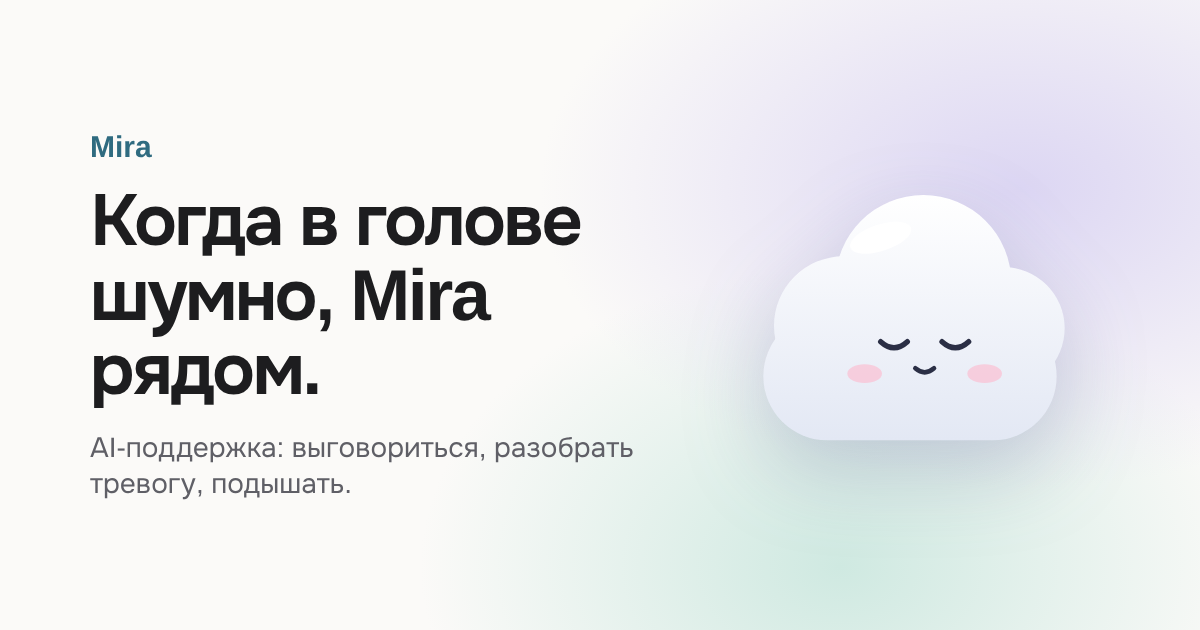
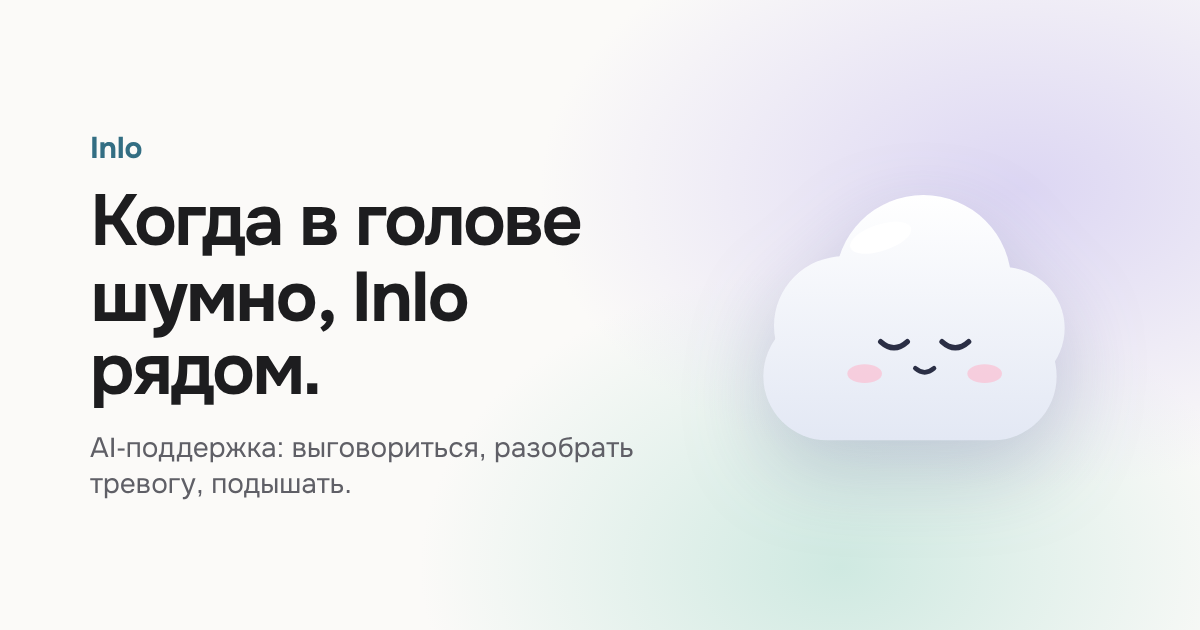
Переименование: Mira → Inlo на сайте, в демо-чате и документах
Название продукта меняется из-за конфликтов на ру-рынке (ИИ-психолог «Мира» и Mira в Telegram).
Меняется только видимое пользователю имя; внутренние идентификаторы (CSS .mira, ключи localStorage,
PUBLIC_MIRA_API) остаются, чтобы не терять историю чата у пользователей. Картинка-превью og.png
перерисована с новым именем. Код бота (bot/) переименовывается отдельно.

Claude-Session: https://claude.ai/code/session_012UMsag2D8XUhqVvByT77CY

Changed region(s): [[0.0925, 0.4222, 0.4317, 0.5127], [0.0617, 0.2111, 0.1233, 0.2714], [0.1233, 0.5127, 0.1542, 0.5429]]

diff --git a/src/styles/global.css b/src/styles/global.css
@@ -1,4 +1,4 @@
-/* Mira: дизайн-токены. Светлая тема днём, тёмная ночью (22–6) и при тёмной теме системы.
+/* Inlo: дизайн-токены. Светлая тема днём, тёмная ночью (22–6) и при тёмной теме системы.
    Пастель только для фонов и облачка; текст не ниже 4,5:1 (WCAG AA). */
 :root, .theme {
   --font: -apple-system, BlinkMacSystemFont, "SF Pro Text", "Onest Variable", "Helvetica Neue", Arial, sans-serif; /* SF на Apple, Onest у остальных: у Inter/Manrope слабая кириллица и вид шаблонного SaaS */
@@ -107,7 +107,7 @@ h1, h2, h3 { font-weight:600; letter-spacing:-.025em; line-height:1.08; }
 @media (prefers-reduced-motion: reduce) { .js .reveal .st { opacity:1; transform:none; filter:none; transition:none; } }
 
 /* Переходы между страницами (View Transitions): мягкое растворение со сдвигом, шапка стоит на месте.
-   Телефон в hero и экран /chat носят одно имя, поэтому «Поговорить с Mira» раскрывает телефон в чат.
+   Телефон в hero и экран /chat носят одно имя, поэтому «Поговорить с Inlo» раскрывает телефон в чат.
    Браузеры без поддержки просто переходят как обычно. */
 @view-transition { navigation: auto; }
 .site-header { view-transition-name: site-header; }

diff --git a/api/chat.js b/api/chat.js
@@ -8,7 +8,7 @@ const MAX_CHARS = 1000;
 const LIMIT = 30; // запросов с одного IP
 const WINDOW_MS = 10 * 60 * 1000;
 
-const SYSTEM = `Ты Mira, AI-ассистент психологической поддержки. Это демо на сайте, сервис для взрослых 18+.
+const SYSTEM = `Ты Inlo, AI-ассистент психологической поддержки. Это демо на сайте, сервис для взрослых 18+.
 Как ты общаешься:
 - По-русски, на «ты», тепло и спокойно, без пафоса и без восклицательных знаков.
 - Коротко: 2–4 предложения. Один вопрос за раз.

diff --git a/src/lib/brand.ts b/src/lib/brand.ts
@@ -1,4 +1,4 @@
 // Название продукта в одном месте. Если переименуем, меняем здесь,
-// затем `grep -rn Mira src` покажет оставшиеся упоминания в чате и политике (там важны падежи, их правит человек).
-export const BRAND = 'Mira';
+// затем `grep -rn Inlo src` покажет оставшиеся упоминания в чате и политике (там важны падежи, их правит человек).
+export const BRAND = 'Inlo';
 export const BRAND_PLUS = `${BRAND} Plus`;

diff --git a/docs/ux-logic.md b/docs/ux-logic.md
@@ -1,4 +1,4 @@
-# Mira: UX-логика сайта (v0.1)
+# Inlo: UX-логика сайта (v0.1)
 
 14.10.2026 · черновик для обсуждения с Петром. Код в `main` не меняем, пока не договоримся о скоупе.
 
@@ -37,7 +37,7 @@ B стоит делать только если Telegram в РФ станет р
 
 ```
 /            Главная (лендинг)
-/chat        Поговорить с Mira (веб-чат = Telegram Mini App)
+/chat        Поговорить с Inlo (веб-чат = Telegram Mini App)
 /breathe     Подышать: плеер упражнения
 /help        Нужна помощь сейчас (кризисная страница)
 /about       О проекте: команда, ход разработки (для преподавателя и защиты)
@@ -45,8 +45,8 @@ B стоит делать только если Telegram в РФ станет р
 ```
 
 Сквозные элементы на каждой странице:
-- **Шапка:** лого Mira · «Подышать» · «О проекте» · кнопка **«Нужна помощь сейчас»** (всегда видна, на мобиле тоже).
-- **Подвал:** «Mira не заменяет психолога. 18+» · контакты помощи · политика · GitHub.
+- **Шапка:** лого Inlo · «Подышать» · «О проекте» · кнопка **«Нужна помощь сейчас»** (всегда видна, на мобиле тоже).
+- **Подвал:** «Inlo не заменяет психолога. 18+» · контакты помощи · политика · GitHub.
 
 ---
 
@@ -56,7 +56,7 @@ B стоит делать только если Telegram в РФ станет р
 Цель экрана: за 5 секунд понять, что это, и сделать одно действие.
 
 1. **Hero.** Облачко (текущая анимация с фазами суток) + заголовок + одна строка.
-   - Заголовок: «Mira. Тёплый собеседник для трудных минут».
+   - Заголовок: «Inlo. Тёплый собеседник для трудных минут».
    - Подзаголовок: «AI-помощник на техниках КПТ. Поговорить, подышать, разобрать тревожную мысль».
    - **Главная кнопка: «Подышать 1 минуту»** → `/breathe`.
    - Вторичная: «Открыть в Telegram» (до запуска бота: «Скоро в Telegram»).
@@ -82,7 +82,7 @@ B стоит делать только если Telegram в РФ станет р
   Темп по умолчанию около 6 вдохов в минуту: это зона резонансного дыхания (Lehrer & Gevirtz, *Frontiers in Psychology*, 2014).
 - **Плеер:** облачко надувается на вдохе и сдувается на выдохе; под ним одно слово («Вдох», «Задержка», «Выдох») и тонкий индикатор прогресса. Кнопки: пауза, звук вкл/выкл, «закончить».
 - **Звук:** по умолчанию выключен (человек может быть в метро или на паре). Позже сюда встанут предзаписанные мужской и женский голос из плана.
-- **Итог:** «Было 4, стало 6». Если стало легче: «Хочешь поговорить с Mira?» → Telegram. Если стало хуже или 1–2: мягко показать `/help`, без драматизации.
+- **Итог:** «Было 4, стало 6». Если стало легче: «Хочешь поговорить с Inlo?» → Telegram. Если стало хуже или 1–2: мягко показать `/help`, без драматизации.
 - Оценки до/после **не отправляем на сервер** на сайте. В Mini App те же оценки пойдут в метрики беты (там есть согласие).
 
 ### 3.3 Нужна помощь сейчас `/help`
@@ -105,7 +105,7 @@ B стоит делать только если Telegram в РФ станет р
 
 **Один экран, два входа.**
 - С сайта: `mira-calm.com/chat`.
-- Из Telegram: бот на `/start` показывает кнопку «Открыть Mira», она открывает тот же `/chat` как Mini App. Текстовый чат прямо в боте оставляем самым простым (без упражнений и голоса), всё богатое живёт в `/chat`.
+- Из Telegram: бот на `/start` показывает кнопку «Открыть Inlo», она открывает тот же `/chat` как Mini App. Текстовый чат прямо в боте оставляем самым простым (без упражнений и голоса), всё богатое живёт в `/chat`.
 
 **Кто ты (вход без паролей).**
 | Вход | Как узнаём пользователя | ПДн |
@@ -115,16 +115,16 @@ B стоит делать только если Telegram в РФ станет р
 Регистрацию по e-mail или телефону **не делаем** в MVP: это лишние ПДн и лишний экран между человеком и помощью. Минус: сменил браузер, потерял историю. Для пилота ок.
 
 **Ворота перед первым сообщением** (один экран, не три):
-1. «Mira это AI, а не психолог. Не ставит диагнозов».
+1. «Inlo это AI, а не психолог. Не ставит диагнозов».
 2. ☐ Мне есть 18 лет.
 3. ☐ Согласен на обработку данных о самочувствии (ссылка на `/privacy`). Отдельная галочка: спецкатегория по ст. 10 152-ФЗ.
 4. Строка: «Если тебе очень плохо прямо сейчас → Нужна помощь» (ссылка на `/help` видна ещё до согласия).
 Кнопка «Начать» активна только с обеими галочками. Повторно ворота не показываем.
 
 **Экран чата.**
-- Шапка: маленькое облачко (живой индикатор состояния) · «Mira» · меню (Голос м/ж/выкл, Удалить мои данные, Политика) · кнопка «Нужна помощь».
+- Шапка: маленькое облачко (живой индикатор состояния) · «Inlo» · меню (Голос м/ж/выкл, Удалить мои данные, Политика) · кнопка «Нужна помощь».
 - Пустой чат: облачко крупно + приветствие + 3 чипа-подсказки: «Мне тревожно» · «Не могу уснуть» · «Хочу разобрать мысль». Чип сразу отправляет сообщение, чтобы не мучиться с первой фразой.
-- Сообщения Mira: текст + кнопка ▶ (озвучка выбранным голосом, по нажатию, не автоплей). Если Mira предлагает упражнение, в ленте карточка «Подышать 1 мин» → `/breathe` поверх чата, после него возврат в диалог с оценкой до/после.
+- Сообщения Inlo: текст + кнопка ▶ (озвучка выбранным голосом, по нажатию, не автоплей). Если Inlo предлагает упражнение, в ленте карточка «Подышать 1 мин» → `/breathe` поверх чата, после него возврат в диалог с оценкой до/после.
 - Поле ввода: только текст (голосовой ввод вне MVP). Лимит длины с мягким счётчиком.
 - Конец сессии: после 10 минут тишины или по кнопке «Завершить» → «Насколько разговор был полезен? 1–5» → спасибо. Это главная метрика беты.
 
@@ -150,7 +150,7 @@ B стоит делать только если Telegram в РФ станет р
 Главная → «Открыть в Telegram» → бот: `/start` → 18+ и дисклеймер → согласие на обработку данных → первое сообщение. (Онбординг бота описываем отдельно, когда возьмёмся за бота.)
 
 **F5. «Хочу поговорить» на сайте**
-Главная → «Поговорить с Mira» → `/chat` → ворота (AI, 18+, согласие) → чип «Мне тревожно» → диалог → карточка «Подышать» → `/breathe` → обратно в чат → «Завершить» → оценка 1–5.
+Главная → «Поговорить с Inlo» → `/chat` → ворота (AI, 18+, согласие) → чип «Мне тревожно» → диалог → карточка «Подышать» → `/breathe` → обратно в чат → «Завершить» → оценка 1–5.
 
 **F4. Преподаватель / жюри**
 Главная → «О проекте» → лента прогресса → GitHub.
@@ -169,8 +169,8 @@ B стоит делать только если Telegram в РФ станет р
 | Мобильный | основной сценарий (ссылки придут из Telegram и QR): mobile-first, главная кнопка в зоне большого пальца |
 | Тёмная тема системы | совпадает с ночной фазой; принудительно не включаем |
 | Ушёл с упражнения на середине | ничего не храним, при возврате начинаем заново |
-| Чат: Mira думает | облачко медленно «дышит» вместо трёх точек; ответ печатается потоком |
-| Чат: LLM не отвечает / ошибка | «Mira задумалась дольше обычного» + «Повторить»; сообщение пользователя не теряется |
+| Чат: Inlo думает | облачко медленно «дышит» вместо трёх точек; ответ печатается потоком |
+| Чат: LLM не отвечает / ошибка | «Inlo задумалась дольше обычного» + «Повторить»; сообщение пользователя не теряется |
 | Чат: нет сети | сообщение помечено «не отправлено», отправится при появлении сети |
 | Чат: слишком много сообщений | мягко: «Давай сделаем паузу на минуту», без кодов ошибок |
 | Чат: «Удалить мои данные» | подтверждение → удаляем на сервере историю и токен → снова ворота |

diff --git a/README.md b/README.md
@@ -1,9 +1,9 @@
-# Mira
+# Inlo
 
 AI-ассистент психологической поддержки на основе КПТ (когнитивно-поведенческой терапии).
-Каналы: Telegram Mini App и анимированный сайт. Маскот — облачко Mira.
+Каналы: Telegram Mini App и анимированный сайт. Маскот — облачко Inlo.
 
-> Mira не заменяет психолога. Сервис для пользователей 18+.
+> Inlo не заменяет психолога. Сервис для пользователей 18+.
 > Если вам сейчас тяжело или есть мысли о самоповреждении, звоните 112 или в экстренную психологическую помощь МЧС: +7 495 989-50-50 (круглосуточно). Все проверенные номера: страница /help.
 
 ## Статус
@@ -25,7 +25,7 @@ npm run build   # сборка в dist/
 
 - `src/pages/`: страницы (`/`, `/help`, `/privacy`)
 - `src/layouts/Base.astro`: общая шапка с кнопкой «Нужна помощь», подвал, фазы суток
-- `src/components/Cloud.astro`: облачко Mira
+- `src/components/Cloud.astro`: облачко Inlo
 - UX-логика и план итераций: `docs/ux-logic.md`
 
 ## Бот
